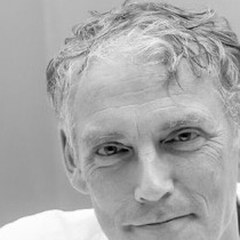
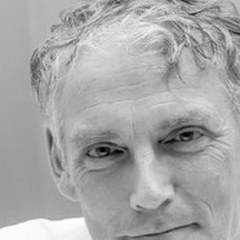
Fix face circles: drop clip-path (mis-anchors under fractional zoom in current Chrome); recrop Organschi

diff --git a/slides.html b/slides.html
@@ -58,8 +58,8 @@ nav.dots button:hover{color:var(--cream);opacity:1}
 nav.dots button.active{color:var(--gold);opacity:1;font-weight:600;background:rgba(226,184,119,.12)}
 nav.dots button.active::before{content:"";position:absolute;left:-.55rem;top:50%;transform:translateY(-50%);width:4px;height:4px;border-radius:50%;background:var(--gold)}
 :focus-visible{outline:2px solid var(--wood-bright);outline-offset:3px;border-radius:3px}
-/* zoom-proof circular clipping: Chrome can mis-clip border-radius on imgs under ancestor zoom */
-.person .pic,.advc>img,.invc img,.phase img,.step .inset,.step img.mol,.adv img{clip-path:circle(50%)}
+/* circular clipping via border-radius only: clip-path circle(50%) mis-anchors under
+   fractional ancestor zoom in current Chrome (the inverse of the old bug it was added for) */
 .scrollcue{position:absolute;bottom:1.6rem;left:50%;transform:translateX(-50%);z-index:5;font-size:clamp(10px,.64rem,.8rem);letter-spacing:.25em;text-transform:uppercase;color:var(--cream-dim);display:flex;flex-direction:column;align-items:center;gap:8px}
 .scrollcue::after{content:"";width:1px;height:2rem;background:linear-gradient(var(--wood-bright),transparent);animation:drop 1.8s infinite}
 @keyframes drop{0%{transform:scaleY(0);transform-origin:top}50%{transform:scaleY(1);transform-origin:top}51%{transform:scaleY(1);transform-origin:bottom}100%{transform:scaleY(0);transform-origin:bottom}}
